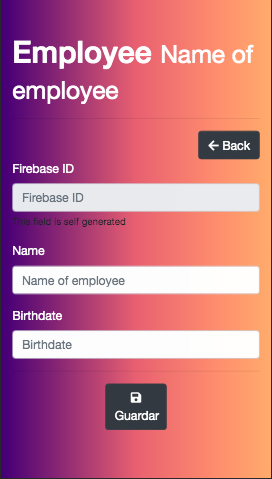
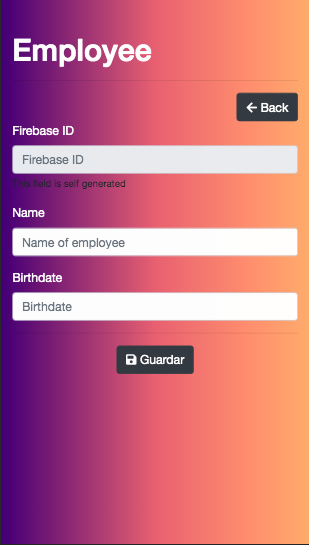
finish project

diff --git a/src/app/pages/employees/employees.component.html b/src/app/pages/employees/employees.component.html
@@ -10,7 +10,7 @@
 </div>
 
 <table
-  *ngIf="!cargando && employees.length > 0"
+  *ngIf="!loading && employees.length > 0"
   class="table mt-3 animated fadeIn faster animated fadeIn faster"
 >
   <thead class="thead-dark">
@@ -18,13 +18,14 @@
       <th scope="col">#</th>
       <th scope="col">Name</th>
       <th scope="col">Birthdate</th>
+      <th scope="col">Edit</th>
     </tr>
   </thead>
   <tbody>
     <tr *ngFor="let employee of employees; let i = index">
-      <th scope="row">{{ i + 1 }}</th>
-      <td>{{ employee.name }}</td>
-      <td>{{ employee.birthdate }}</td>
+      <th scope="row" class="employee-index--text">{{ i + 1 }}</th>
+      <td class="employee-name--text">{{ employee.name }}</td>
+      <td class="employee-bithdate--text">{{ employee.birthdate }}</td>
       <td>
         <button
           class="btn btn-info mr-1"
@@ -33,7 +34,7 @@
           <i class="fa fa-pen"></i>
         </button>
 
-        <button class="btn btn-danger" (click)="borrarEmployee(employee, i)">
+        <button class="btn btn-danger" (click)="deleteEmployee(employee, i)">
           <i class="fa fa-trash"></i>
         </button>
       </td>
@@ -42,7 +43,7 @@
 </table>
 
 <div
-  *ngIf="!cargando && employees.length === 0"
+  *ngIf="!loading && employees.length === 0"
   class="alert alert-warning text-center mt-3 animated fadeIn faster"
 >
   <h4 class="alert-heading">No records</h4>
@@ -52,7 +53,7 @@
 </div>
 
 <div
-  *ngIf="cargando"
+  *ngIf="loading"
   class="alert alert-info text-center mt-3 animated fadeIn faster"
 >
   <h4 class="alert-heading">Loading</h4>

diff --git a/src/app/pages/employees/employees.component.ts b/src/app/pages/employees/employees.component.ts
@@ -10,18 +10,18 @@ import Swal from "sweetalert2";
 })
 export class EmployeesComponent implements OnInit {
   employees: EmployeeModel[] = [];
-  cargando = false;
+  loading = false;
 
   constructor(private employeesService: EmployeesService) {}
 
   ngOnInit() {
-    this.cargando = true;
+    this.loading = true;
     this.employeesService.getEmployees().subscribe(resp => {
       this.employees = resp;
-      this.cargando = false;
+      this.loading = false;
     });
   }
-  borrarEmployee(employee: EmployeeModel, i: number) {
+  deleteEmployee(employee: EmployeeModel, i: number) {
     Swal.fire({
       title: "Sure?",
       text: `Are you sure you want delete ${employee.name}`,
@@ -31,7 +31,7 @@ export class EmployeesComponent implements OnInit {
     }).then(resp => {
       if (resp.value) {
         this.employees.splice(i, 1);
-        this.employeesService.borrarEmployee(employee.id).subscribe();
+        this.employeesService.deleteEmployee(employee.id).subscribe();
       }
     });
   }

diff --git a/src/app/services/employees.service.ts b/src/app/services/employees.service.ts
@@ -30,7 +30,7 @@ export class EmployeesService {
       employeeTemp
     );
   }
-  borrarEmployee(id: string) {
+  deleteEmployee(id: string) {
     return this.http.delete(`${this.url}/employees/${id}.json`);
   }
 
@@ -40,13 +40,11 @@ export class EmployeesService {
 
   getEmployees() {
     return this.http
-      .get(`${this.url}/emloyees.json`)
+      .get(`${this.url}/employees.json`)
       .pipe(map(this.createEmployeesArray), delay(0));
   }
   private createEmployeesArray(employeesObj: object) {
     const employees: EmployeeModel[] = [];
-
-    console.log(employeesObj);
 
     Object.keys(employeesObj).forEach(key => {
       const employee: EmployeeModel = employeesObj[key];

diff --git a/src/app/pages/employee/employee.component.html b/src/app/pages/employee/employee.component.html
@@ -1,4 +1,4 @@
-<h1>Employee <small>Name of employee</small></h1>
+<h1>Employee</h1>
 
 <hr />
 <div class="row text-right">
@@ -11,7 +11,7 @@
 
 <div class="row animated fadeIn slower">
   <div class="col">
-    <form (ngSubmit)="guardar(f)" #f="ngForm">
+    <form (ngSubmit)="save(f)" #f="ngForm">
       <div class="form-group">
         <label>Firebase ID</label>
         <input
@@ -51,7 +51,7 @@
 
       <hr />
       <div class="form-group text-center">
-        <button type="submit" class="btn btn-dark w-25">
+        <button type="submit" class="btn btn-dark w-45">
           <i class="fa fa-save"></i> Guardar
         </button>
       </div>

diff --git a/src/styles.css b/src/styles.css
@@ -6,6 +6,20 @@ body {
 }
 
 h1,
-label {
+label,
+.employee-index--text,
+.employee-bithdate--text,
+.employee-name--text {
   color: #ffffff;
+}
+
+@media all and (min-width: 768px) {
+  .employee-index--text,
+  .employee-bithdate--text,
+  .employee-name--text {
+    font-size: 18px;
+  }
+}
+
+@media all and (min-width: 1200px) {
 }

diff --git a/src/app/pages/employee/employee.component.ts b/src/app/pages/employee/employee.component.ts
@@ -31,9 +31,8 @@ export class EmployeeComponent implements OnInit {
     }
   }
 
-  guardar(form: NgForm) {
+  save(form: NgForm) {
     if (form.invalid) {
-      console.log("Formulario no válido");
       return;
     }
 
